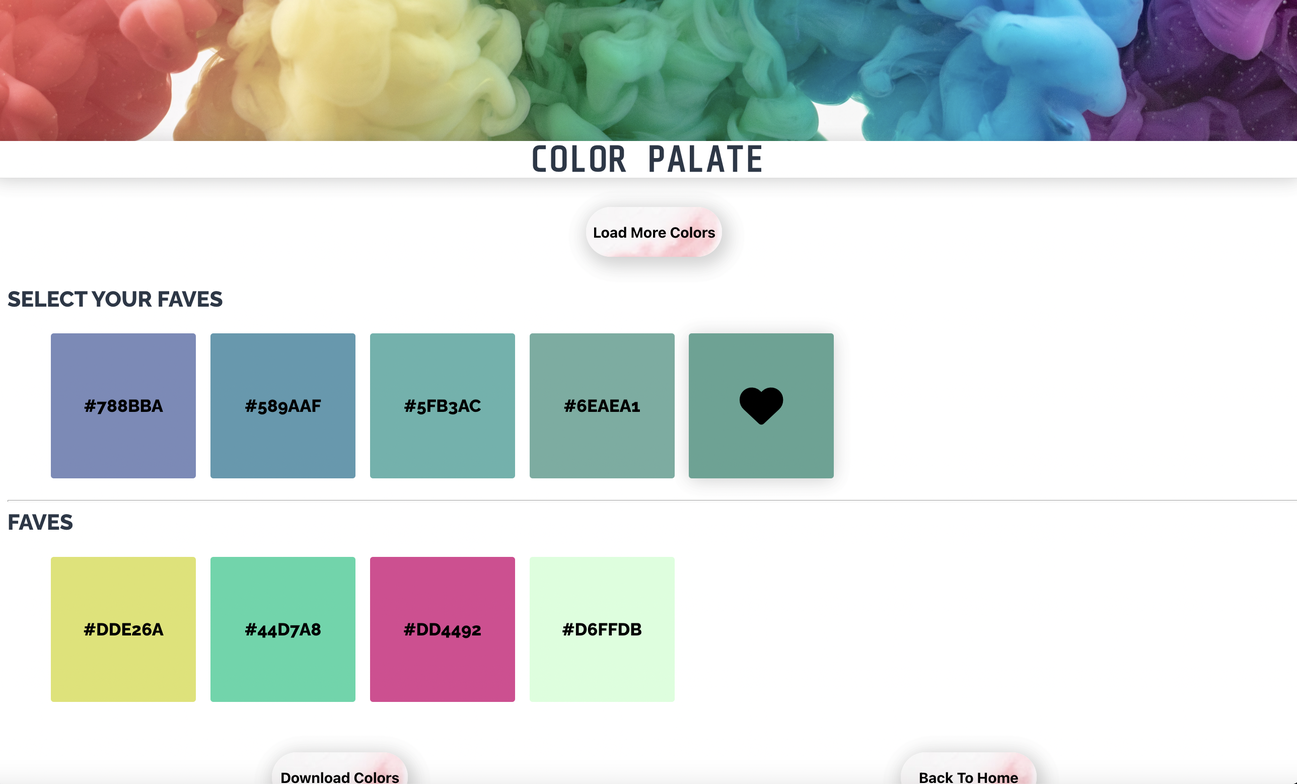
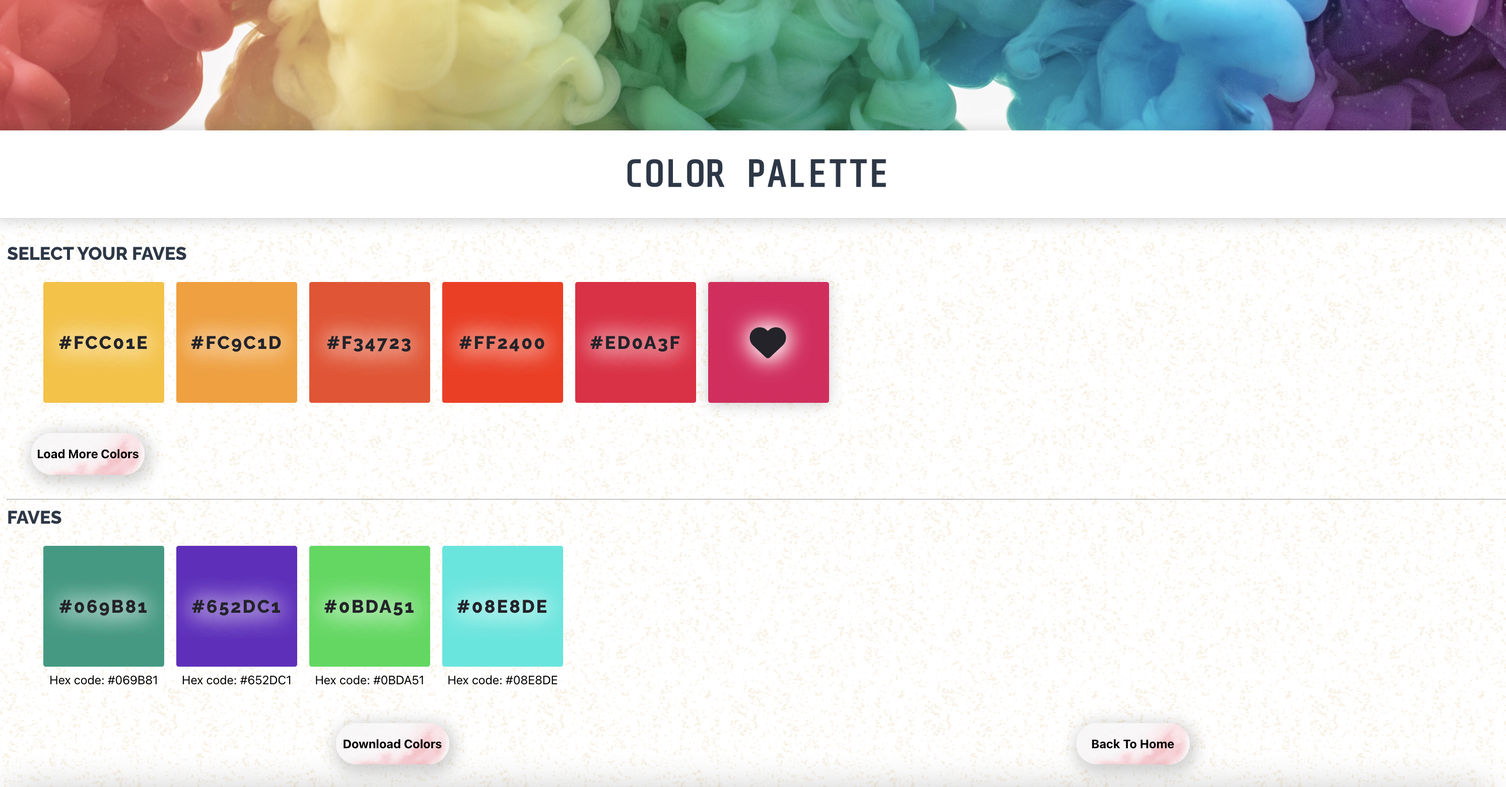
change screenshots in readme

diff --git a/README.md b/README.md
@@ -1,9 +1,9 @@
 # Welcome to ColorIZE
 ## AKA A Color Palette Fetching Tool
 
-Fetch some color schemes, save your favorites and download your perfect color scheme as a txt file!
+Fetch some color schemes, sort and save your favorites and download your perfect color scheme as a txt file!
 
-This project was created from scratch with Node and Express in the back end. It uses jQuery, Pug, Javascript and CSS for the main features and functionality, and fetches color schemes from an API.
+This project was created from scratch with Node and Express in the back end. It uses jQuery, Pug, Javascript, CSS and SortableJS for the main features and functionality, and fetches color schemes from an API.
 
 
 For more information on the API used, check out: https://www.thecolorapi.com/
